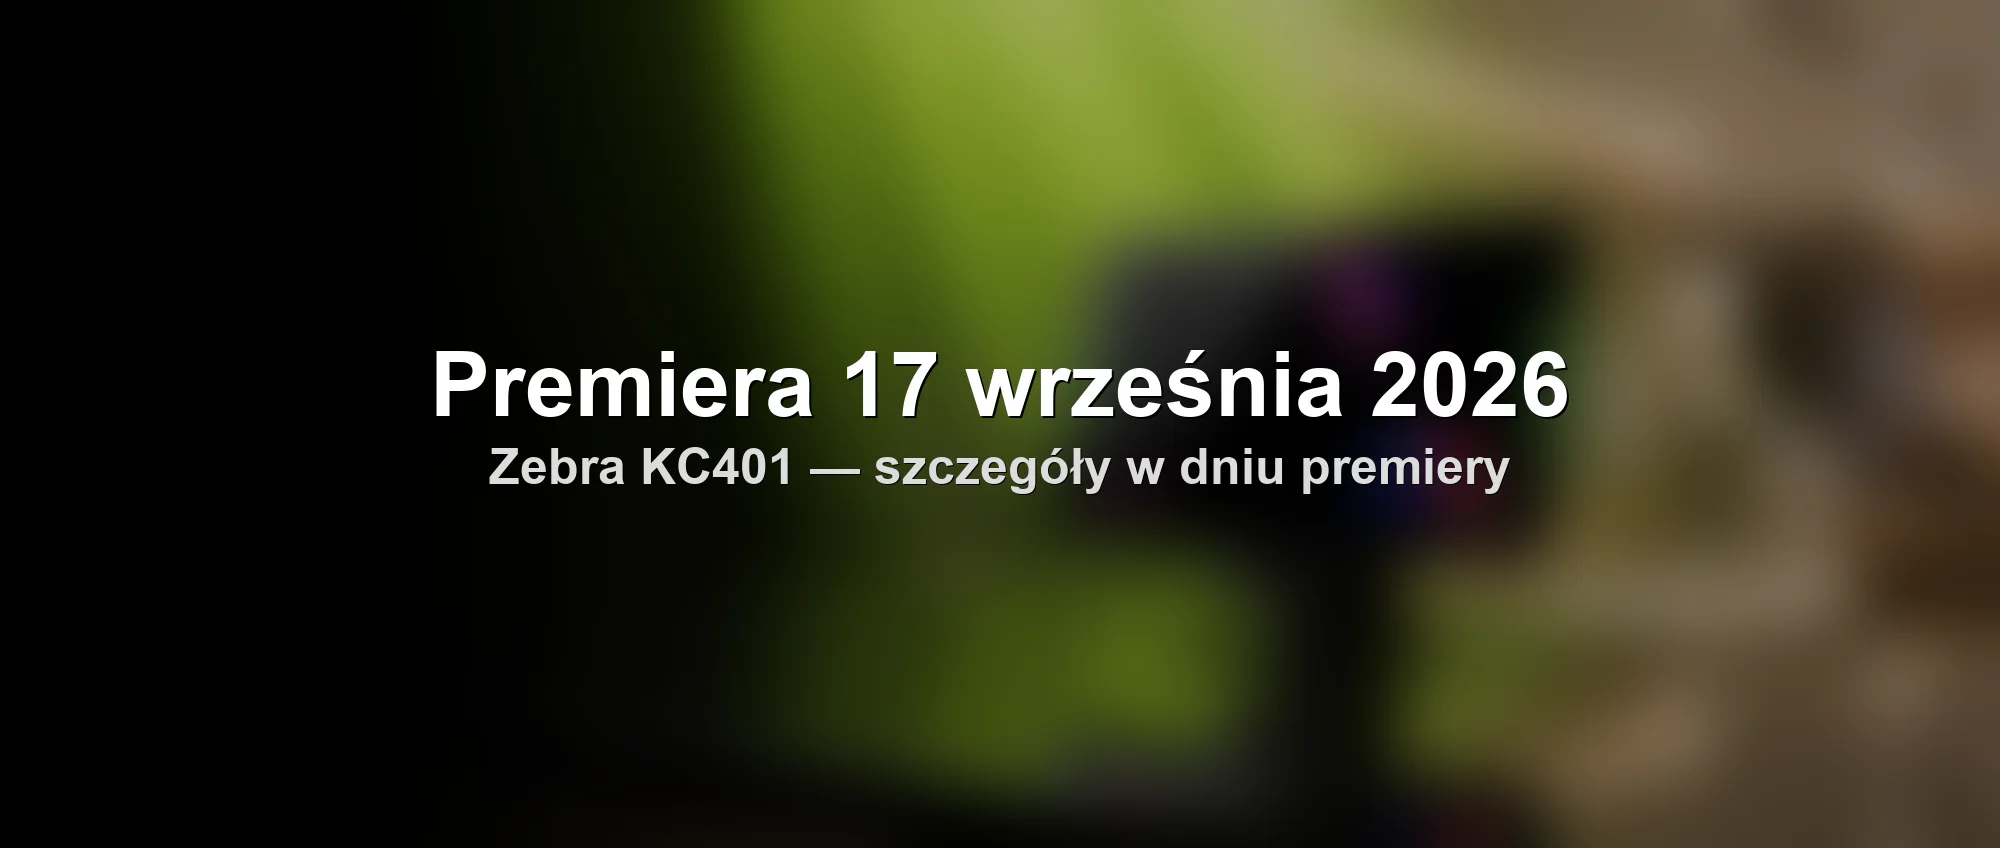
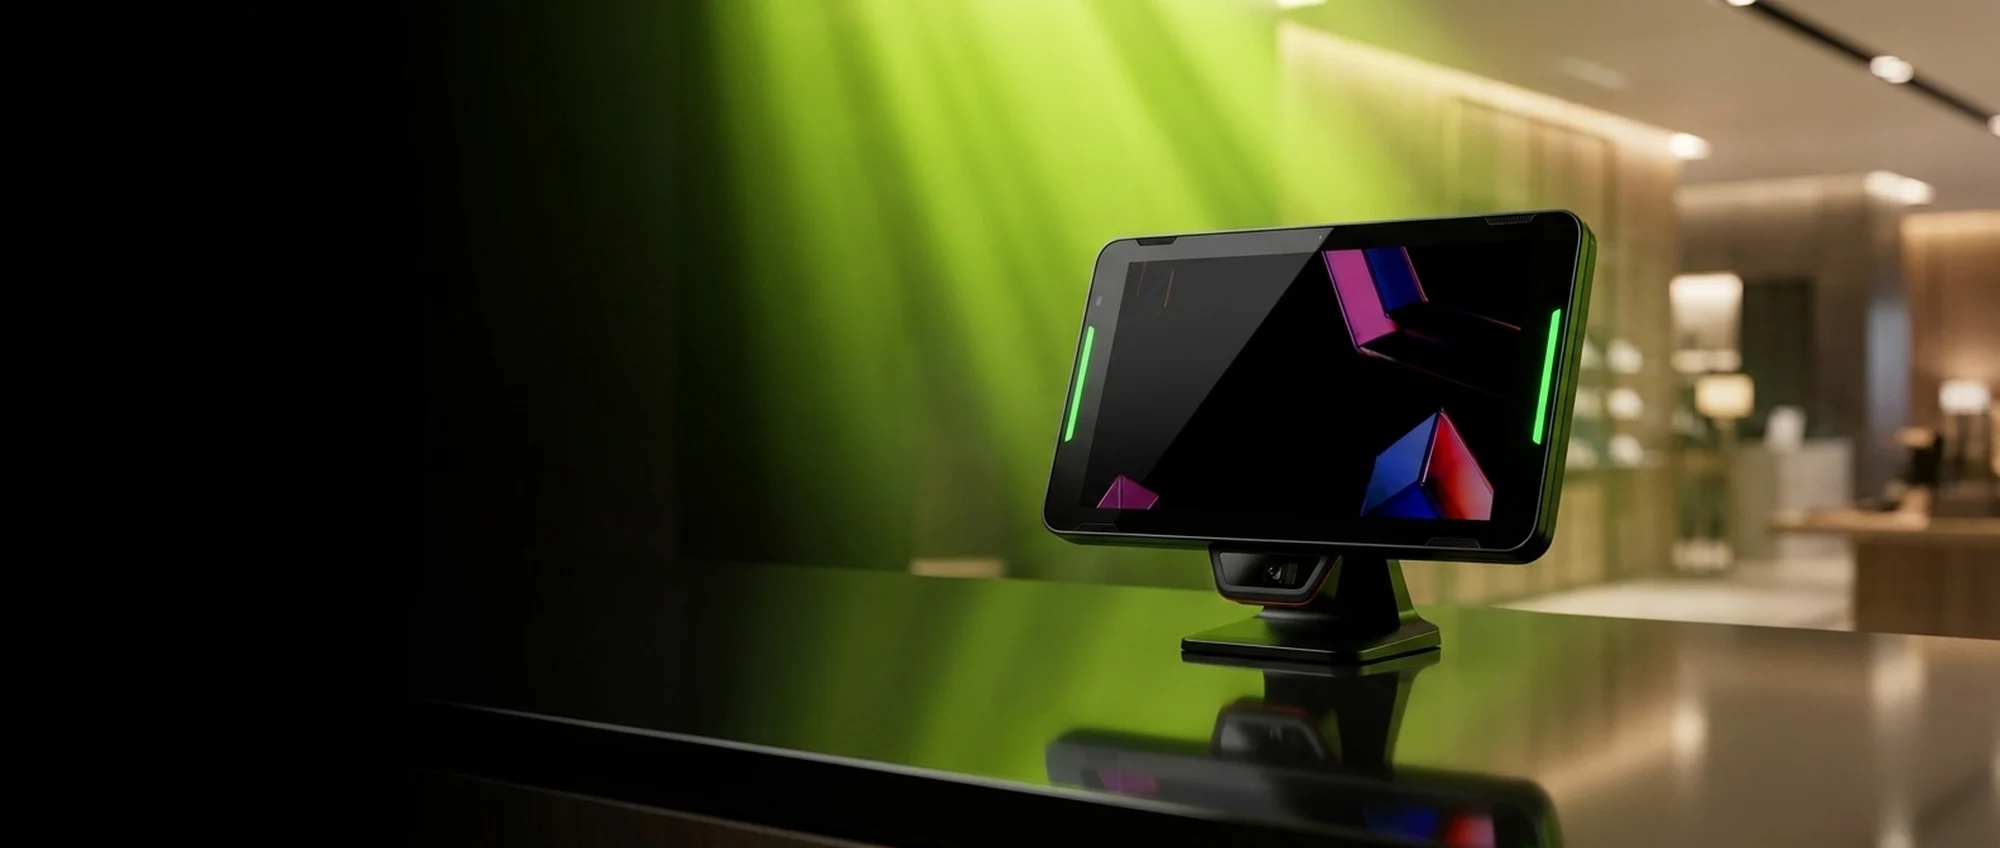
KC401: zdjęte embargo producenta — pełny wpis i oryginalne obrazy
Premiera Zebry KC401 odbyła się 17 września 2026, więc wpis wraca do wersji
sprzed embarga: specyfikacja, skaner SR500, Wi-Fi 7, NFC, PoE, IP65, porównanie
z CC6000, zastosowania branżowe i FAQ (2,6 tys. → 12,1 tys. znaków).
Rozmyte obrazy z plakietką „Premiera 17 września" zastąpione oryginałami.

Ze strony głównej znika filtr wykluczający wpis z sekcji poradników — był
tymczasowy, bo Google rankował home zamiast wpisu na frazę „zebra kc401".

Claude-Session: https://claude.ai/code/session_01LzgP5oWkdc5FWhyzRXypir

diff --git a/src/data/guides.ts b/src/data/guides.ts
@@ -14942,40 +14942,124 @@ export const guides: Guide[] = [
 },
 {
   slug: 'zebra-kc401-kiosk-samoobslugowy',
-  title: 'Zebra KC401 — kiosk samoobsługowy nowej generacji [zapowiedź]',
-  seoTitle: 'Zebra KC401 — kiosk samoobsługowy. Premiera 17 września 2026 | TAKMA',
-  seoDescription: 'Zebra KC401 — nowy kiosk samoobsługowy Zebra. Oficjalna premiera 17 września 2026. Pełna specyfikacja, zdjęcia i ceny w dniu premiery. Zapytaj o dostępność przedpremierową w TAKMA.',
-  excerpt: 'Zebra zapowiedziała KC401 — kiosk samoobsługowy nowej generacji. Oficjalna premiera odbędzie się 17 września 2026 i do tego dnia szczegóły produktu objęte są embargiem producenta. W dniu premiery uzupełnimy ten wpis o pełną specyfikację, zdjęcia, zastosowania i ceny.',
+  title: 'Zebra KC401 — kiosk samoobsługowy nowej generacji',
+  seoTitle: 'Zebra KC401 — kiosk samoobsługowy Android 10", Wi-Fi 7, NFC | TAKMA',
+  seoDescription: 'Zebra KC401 — 10-calowy kiosk samoobsługowy z Androidem, skanerem SR500, płatnościami zbliżeniowymi NFC, Wi-Fi 7 i zasilaniem PoE. Następca CC6000 do handlu, hotelarstwa, logistyki i ochrony zdrowia. Specyfikacja, zastosowania i migracja.',
+  excerpt: 'Zebra KC401 to kiosk samoobsługowy nowej generacji: 10-calowy ekran dotykowy, Android, skaner 1D/2D, płatności zbliżeniowe NFC, Wi-Fi 7 i zasilanie przez Ethernet (PoE). Zastępuje popularny kiosk CC6000 bez wymiany obudowy i uchwytów. Omawiamy specyfikację, zastosowania w handlu, hotelarstwie, logistyce i ochronie zdrowia oraz to, co odróżnia KC401 od poprzednika.',
   category: 'przewodnik' as const,
-  tags: ['kiosk', 'samoobsługa', 'zebra', 'kc401', 'zapowiedź', 'nowość'],
+  tags: ['kiosk', 'samoobsługa', 'zebra', 'kc401', 'android', 'wi-fi-7', 'nfc', 'płatności zbliżeniowe', 'cc6000', 'handel', 'hotelarstwo', 'ochrona zdrowia', 'nowość', 'Zebra KC401'],
   publishedAt: '2026-07-09',
-  updatedAt: '2026-07-15',
-  readTime: '2 min',
+  updatedAt: '2026-09-17',
+  readTime: '11 min',
   heroImage: '/images/guides/zebra-kc401-hero.webp',
-  heroImageAlt: 'Zebra KC401 — zapowiedź kiosku samoobsługowego, premiera 17 września 2026',
+  heroImageAlt: 'Zebra KC401 — kiosk samoobsługowy z 10-calowym ekranem i zielonymi paskami LED, na ladzie w nowoczesnym wnętrzu',
   sections: [
     {
-      id: 'zapowiedz',
-      heading: 'Zebra KC401 — premiera 17 września 2026',
+      id: 'podsumowanie',
+      heading: 'Zebra KC401 — samoobsługa w każdym miejscu placówki',
+      content: `<style>.kc401-gallery img{max-height:230px}.kc401-gallery>div:first-child img:hover{transform-origin:left center}.kc401-gallery>div:last-child img:hover{transform-origin:right center}.kc401-gallery img:hover{transform:scale(1.4)!important}</style>
+<div class="kc401-gallery" style="display:flex;gap:32px;flex-wrap:wrap;margin-bottom:24px;justify-content:center;align-items:flex-end">
+<div style="min-width:180px;text-align:center;display:flex;flex-direction:column;align-items:center">
+<img src="/images/products/kc401_portrait.png" alt="Zebra KC401 w orientacji pionowej — kiosk samoobsługowy z ekranem 10 cali i skanerem 1D/2D" style="max-height:230px;margin:0 auto" loading="lazy" />
+<p><strong>KC401 — pion</strong><br/>ekran 10", zielone paski LED, skaner u dołu</p>
+</div>
+<div style="min-width:180px;text-align:center;display:flex;flex-direction:column;align-items:center">
+<img src="/images/products/kc401_landscape.png" alt="Zebra KC401 w orientacji poziomej — kiosk samoobsługowy z montażem VESA" style="max-height:230px;margin:0 auto" loading="lazy" />
+<p><strong>KC401 — poziom</strong><br/>montaż VESA, przód i tył z uchwytem</p>
+</div>
+</div>
+<p><strong>Zebra KC401</strong> to <strong>10-calowy kiosk samoobsługowy z systemem Android</strong>, zaprojektowany tak, aby przenieść część obsługi na samych klientów i pracowników pierwszej linii — od sprawdzania cen i dostępności towaru, przez meldowanie gości, po płatności zbliżeniowe i kontrolę dostępu. Urządzenie działa w orientacji pionowej lub poziomej, montuje się je na ścianie, słupku, ladzie lub w istniejącej szafce, a intuicyjny interfejs prowadzi użytkownika krok po kroku.</p>
+<p>Najważniejsze z perspektywy firm, które już mają kioski: KC401 to <strong>bezpośredni następca modelu CC6000</strong> — można go zamontować w tej samej obudowie i na tych samych uchwytach, bez przebudowy stanowiska.</p>`,
+    },
+    {
+      id: 'specyfikacja',
+      heading: 'Kluczowa specyfikacja Zebra KC401',
       content: `
-<p><strong>Zebra KC401</strong> to zapowiedziany kiosk samoobsługowy nowej generacji. Oficjalna premiera odbędzie się <strong>17 września 2026</strong> — do tego dnia szczegółowe dane produktu (specyfikacja, zdjęcia, ceny i dostępność) objęte są embargiem producenta, dlatego nie możemy ich jeszcze publikować.</p>
-<p>W dniu premiery uzupełnimy ten wpis o pełny przewodnik: specyfikację techniczną, zastosowania branżowe, porównanie z dotychczasowymi kioskami Zebra oraz informacje o migracji i wdrożeniu.</p>
-<p>Jeśli planujesz wdrożenie kiosków samoobsługowych i chcesz porozmawiać o KC401 przed premierą — <a href="/kontakt">skontaktuj się z nami</a>. Jako autoryzowany partner Zebra przygotowujemy ofertę premierową i możemy zarezerwować dostawy z pierwszej partii.</p>`,
+<table>
+<thead><tr><th>Parametr</th><th>Zebra KC401</th></tr></thead>
+<tbody>
+<tr><td>Ekran</td><td>10,1" dotykowy, 1280×800, 350 nitów, szkło o twardości 9H, odporne na zarysowania i odciski palców</td></tr>
+<tr><td>Obsługa dotyku</td><td>Palcem, w rękawiczce lub rysikiem pojemnościowym</td></tr>
+<tr><td>Orientacja</td><td>Pionowa lub pozioma</td></tr>
+<tr><td>System</td><td>Android z aktualizacjami bezpieczeństwa LifeGuard</td></tr>
+<tr><td>Procesor</td><td>Qualcomm Dragonwing Q-6690, do 2,0 GHz</td></tr>
+<tr><td>Pamięć</td><td>6 GB RAM (LPDDR5) / 64 GB (UFS 2.2), microSD do 2 TB</td></tr>
+<tr><td>Skanowanie</td><td>Aparat 5 MP (standard) lub opcjonalny skaner 1D/2D SR500; trzy kąty montażu skanera (0°, −25°, +25°)</td></tr>
+<tr><td>Płatności / NFC</td><td>NFC zgodne z EMVCO, Apple VAS, Google Smart Tap, portfele Apple, Google i Samsung</td></tr>
+<tr><td>Łączność</td><td><strong>Wi-Fi 7</strong> (oraz Wi-Fi 6), Bluetooth 6.0, Ethernet 10/100/1000 (RJ45)</td></tr>
+<tr><td>Zasilanie</td><td>12 V DC 36 W, <strong>Power over Ethernet (PoE, 30 W)</strong> lub 5,4 V DC 16 W</td></tr>
+<tr><td>Porty</td><td>USB-C, 2× USB-A, RJ45</td></tr>
+<tr><td>Sygnalizacja</td><td>Programowalne, wielokolorowe paski LED (dowolny kolor), sygnał dźwiękowy, wibracja</td></tr>
+<tr><td>Odporność</td><td>Szczelność IP65, testowany na uderzenia, ESD do ±15 kV</td></tr>
+<tr><td>Audio</td><td>Głośniki stereo, 3 mikrofony, VoIP z PTT, redukcja szumów Qualcomm Fluence</td></tr>
+<tr><td>Montaż</td><td>Uchwyty VESA — ściana, słupek, lada, szafka</td></tr>
+<tr><td>Waga</td><td>920 g (bez skanera) / 947 g (ze skanerem)</td></tr>
+</tbody>
+</table>`,
+    },
+    {
+      id: 'co-nowego',
+      heading: 'Co odróżnia KC401 od kiosku CC6000',
+      content: `
+<p>Jeśli korzystasz dziś z kiosków Zebra CC6000, przejście na KC401 jest bezbolesne — to <strong>zamiennik montowany w istniejącej infrastrukturze</strong>. Ale pod obudową zmienia się bardzo dużo:</p>
+<p><strong>Łączność następnej generacji.</strong> KC401 wprowadza <strong>Wi-Fi 7</strong> i Bluetooth 6.0. W praktyce oznacza to płynniejsze działanie interfejsu i szybsze ładowanie treści nawet w zatłoczonej sieci sklepowej czy hotelowej. Dochodzi też pełne <strong>zasilanie przez Ethernet (PoE)</strong> — jeden kabel doprowadza prąd i sieć, więc kiosk można powiesić tam, gdzie nie ma gniazdka.</p>
+<p><strong>Płatności zbliżeniowe wbudowane na stałe.</strong> Technologia NFC „dotknij ekranu" obsługuje karty, portfele mobilne (Apple, Google, Samsung) oraz bilety i karty lojalnościowe w Apple VAS i Google Smart Tap. Klient, który chce ominąć kolejkę, płaci jednym gestem.</p>
+<p><strong>Sygnalizacja świetlna, którą sam ustawiasz.</strong> Wbudowane paski LED świecą dowolnym kolorem — możesz nimi prowadzić użytkownika (np. zielony = gotowe, czerwony = błąd) i ułatwić odnalezienie kiosku w przestrzeni.</p>
+<p><strong>Dłuższe bezpieczeństwo.</strong> Aktualizacje LifeGuard dla Androida chronią kiosk przed nowymi zagrożeniami przez lata, a Ty decydujesz, które urządzenia i kiedy aktualizować.</p>`,
+    },
+    {
+      id: 'skanowanie-platnosci',
+      heading: 'Skanowanie i płatności — serce samoobsługi',
+      content: `
+<p><strong>Skanowanie bez trzymania w ręku.</strong> W wersji standardowej KC401 skanuje aparatem 5 MP, a po dołożeniu opcjonalnego skanera <strong>SR500 1D/2D</strong> odczytuje praktycznie każdy kod kreskowy w trudnych warunkach — z ekranu telefonu, ze zmiętej etykiety, z odbicia. Skaner montuje się pod jednym z trzech kątów (0°, −25°, +25°), więc kąt odczytu dopasujesz do sposobu, w jaki klient podchodzi do kiosku.</p>
+<p>To otwiera typowe scenariusze samoobsługi: sprawdzenie ceny i dostępności, skanowanie kart lojalnościowych, weryfikacja promocji, rozpoczęcie zwrotu, a w hotelarstwie i eventach — meldowanie gości oraz kontrola biletów z telefonu lub wydruku.</p>
+<p><strong>Płatności i bilety jednym dotknięciem.</strong> Moduł NFC zamienia oczekiwanie w błyskawiczną transakcję: płatność kartą lub portfelem mobilnym, realizacja biletu cyfrowego, wykorzystanie karty podarunkowej, naliczenie rabatu lojalnościowego. Skrócenie kolejek przekłada się wprost na wyższą przepustowość stanowiska i zadowolenie klienta.</p>`,
+    },
+    {
+      id: 'zastosowania',
+      heading: 'Gdzie sprawdza się KC401 — zastosowania branżowe',
+      content: `
+<p><strong>Handel i hotelarstwo:</strong> sprawdzanie cen i stanów magazynowych, stanowisko zwrotów, kiosk POS, meldowanie gości, rejestracja czasu pracy personelu, kontrola dostępu na identyfikator, inteligentny wyświetlacz przy półce oraz stanowisko „osobistego doradcy" wspierającego zakupy.</p>
+<p><strong>Logistyka, magazyn i produkcja:</strong> rejestracja czasu pracy, stanowiska zwrotów, kontrola dostępu na identyfikator, kiosk wydruku, a także panel sterujący do szafek wydających (np. narzędzia, sprzęt).</p>
+<p><strong>Ochrona zdrowia:</strong> samodzielna rejestracja pacjenta, kontrola dostępu personelu na identyfikator, inteligentny wyświetlacz przed salą oraz rejestracja czasu pracy. Szczelność IP65 pozwala na częste mycie i dezynfekcję powierzchni, co jest krytyczne w placówkach medycznych i gastronomii.</p>
+<p><strong>Kiosk, który staje się zegarem rejestracji czasu.</strong> W połączeniu z systemem Zebra Workcloud KC401 rejestruje wejścia i wyjścia pracowników — wystarczy zeskanować kod QR z identyfikatora lub wpisać numer, aby precyzyjnie ewidencjonować obecność w całej firmie.</p>
+<p><strong>Wezwanie pomocy jednym przyciskiem.</strong> Gdy klient potrzebuje wsparcia, KC401 może wysłać powiadomienie do terminala mobilnego najbliższego pracownika wraz z lokalizacją kiosku, a dzięki dobremu układowi audio pracownik odpowie głosowo. Samoobsługa nie oznacza więc pozostawienia klienta samemu sobie.</p>`,
+    },
+    {
+      id: 'wdrozenie',
+      heading: 'Wdrożenie i utrzymanie',
+      content: `
+<p><strong>Montaż tam, gdzie potrzebujesz.</strong> Uchwyty VESA w kilku rozmiarach pozwalają zamontować KC401 na ścianie, słupku, ladzie lub w istniejącej szafce. Brak gniazdka nie jest problemem — zasilanie PoE prowadzi prąd i sieć jednym kablem Ethernet, co skraca czas i koszt instalacji oraz daje swobodę w rozmieszczeniu stanowisk.</p>
+<p><strong>Trwałość dopasowana do intensywnego ruchu.</strong> Ekran o twardości 9H jest odporny na zarysowania i utrzymuje estetyczny wygląd mimo setek dotknięć dziennie. Konstrukcja przeszła testy udarności, a szczelność IP65 chroni elektronikę przed kurzem i zalaniem.</p>
+<p><strong>Zarządzanie flotą.</strong> Pakiet oprogramowania Zebra DNA upraszcza konfigurację, zabezpieczenie i zdalne zarządzanie kioskami z jednego pulpitu — od pierwszego uruchomienia po codzienne aktualizacje. To realne obniżenie nakładu pracy działu IT przy większej liczbie stanowisk.</p>`,
     },
   ],
   faq: [
     {
-      question: 'Kiedy będzie dostępny kiosk Zebra KC401?',
-      answer: 'Oficjalna premiera Zebra KC401 zaplanowana jest na 17 września 2026. Po tym terminie opublikujemy pełną specyfikację, ceny i dostępność magazynową.',
+      question: 'Czy Zebra KC401 zastąpi mój kiosk CC6000 bez przebudowy stanowiska?',
+      answer: 'Tak. KC401 zaprojektowano jako bezpośredni następca CC6000 — pasuje do istniejącej obudowy, uchwytów i infrastruktury montażowej, więc wymiana odbywa się bez przebudowy stanowiska i z minimalnym przestojem.',
     },
     {
-      question: 'Czy można zamówić KC401 przed premierą?',
-      answer: 'Skontaktuj się z nami — jako autoryzowany partner Zebra zbieramy zamówienia przedpremierowe i rezerwujemy dostawy z pierwszej partii.',
+      question: 'Czy KC401 obsługuje płatności zbliżeniowe?',
+      answer: 'Tak. Wbudowany moduł NFC obsługuje płatności kartami i portfelami mobilnymi (Apple, Google, Samsung) oraz bilety i karty lojalnościowe w standardach Apple VAS i Google Smart Tap. Obsługa płatności wymaga odpowiedniej umowy serwisowej Zebra.',
+    },
+    {
+      question: 'Czy kiosk można zasilić bez gniazdka elektrycznego?',
+      answer: 'Tak. KC401 obsługuje zasilanie Power over Ethernet (PoE) — jeden kabel Ethernet doprowadza jednocześnie prąd i sieć. Alternatywnie można użyć zasilacza 12 V DC. To duża swoboda przy wyborze miejsca montażu.',
+    },
+    {
+      question: 'W jakiej orientacji działa KC401 — pionowej czy poziomej?',
+      answer: 'W obu. 10-calowy ekran można ustawić pionowo lub poziomo, a interfejs dostosowuje się do orientacji. Wybór zależy od zastosowania i miejsca montażu.',
+    },
+    {
+      question: 'Czy KC401 nadaje się do placówek medycznych?',
+      answer: 'Tak. Szczelność IP65 pozwala na częste mycie i dezynfekcję powierzchni, a scenariusze takie jak samodzielna rejestracja pacjenta, kontrola dostępu personelu i inteligentny wyświetlacz przed salą należą do typowych zastosowań kiosku w ochronie zdrowia.',
     },
   ],
   relatedLinks: [
-    { title: 'Kontakt — zapytaj o ofertę premierową', href: '/kontakt' },
-    { title: 'Urządzenia Zebra w TAKMA', href: '/terminale-mobilne-zebra' },
+    { title: 'Terminale mobilne Zebra — pełna oferta', href: '/terminale-mobilne-zebra' },
+    { title: 'Tablety przemysłowe Zebra', href: '/tablety-przemyslowe-zebra' },
+    { title: 'Jak wybrać terminal mobilny — przewodnik 2026', href: '/poradnik/jak-wybrac-terminal-mobilny' },
   ],
 },
 ]

diff --git a/src/app/page.tsx b/src/app/page.tsx
@@ -432,8 +432,7 @@ export default function HomePage() {
           </div>
 
           <div className="grid grid-cols-1 sm:grid-cols-2 lg:grid-cols-4 gap-4 lg:gap-5">
-            {/* KC401 wykluczony do premiery 17.09.2026 (embargo) — Google rankował home zamiast wpisu na frazę "zebra kc401" */}
-            {[...guides].filter(g => g.slug !== 'zebra-kc401-kiosk-samoobslugowy').sort((a, b) => b.publishedAt.localeCompare(a.publishedAt)).slice(0, 4).map((guide, i) => (
+            {[...guides].sort((a, b) => b.publishedAt.localeCompare(a.publishedAt)).slice(0, 4).map((guide, i) => (
               <Link
                 key={guide.slug}
                 href={`/poradnik/${guide.slug}`}
@@ -487,7 +486,7 @@ export default function HomePage() {
               href="/poradnik"
               className="inline-flex items-center gap-2 px-6 py-3 text-sm font-semibold text-primary-700 bg-primary-50 hover:bg-primary-100 border border-primary-200 rounded-xl transition-colors"
             >
-              Zobacz wszystkie poradniki ({guides.filter(g => g.slug !== 'zebra-kc401-kiosk-samoobslugowy').length})
+              Zobacz wszystkie poradniki ({guides.length})
               <ArrowRightIcon size={16} />
             </Link>
           </div>
